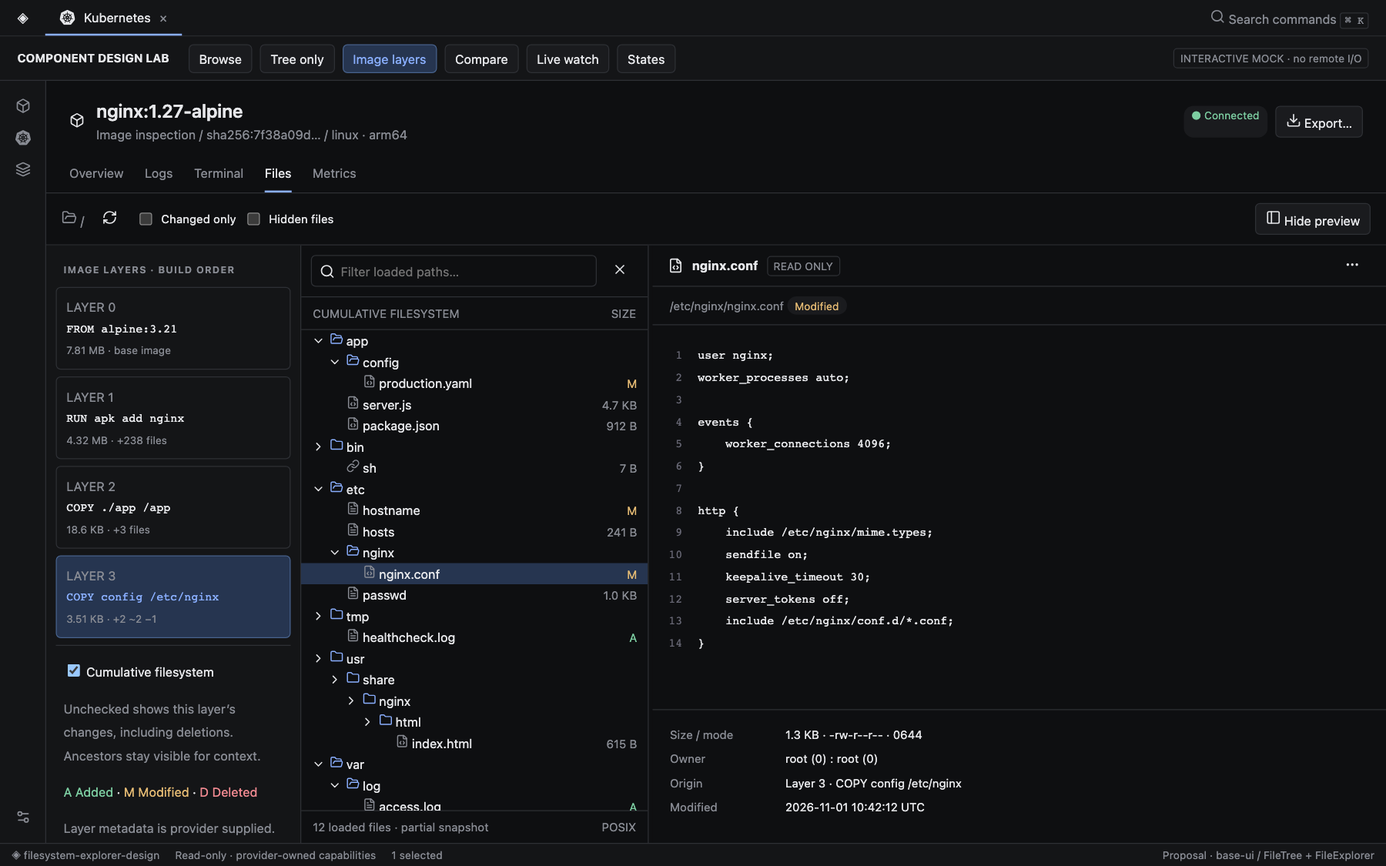
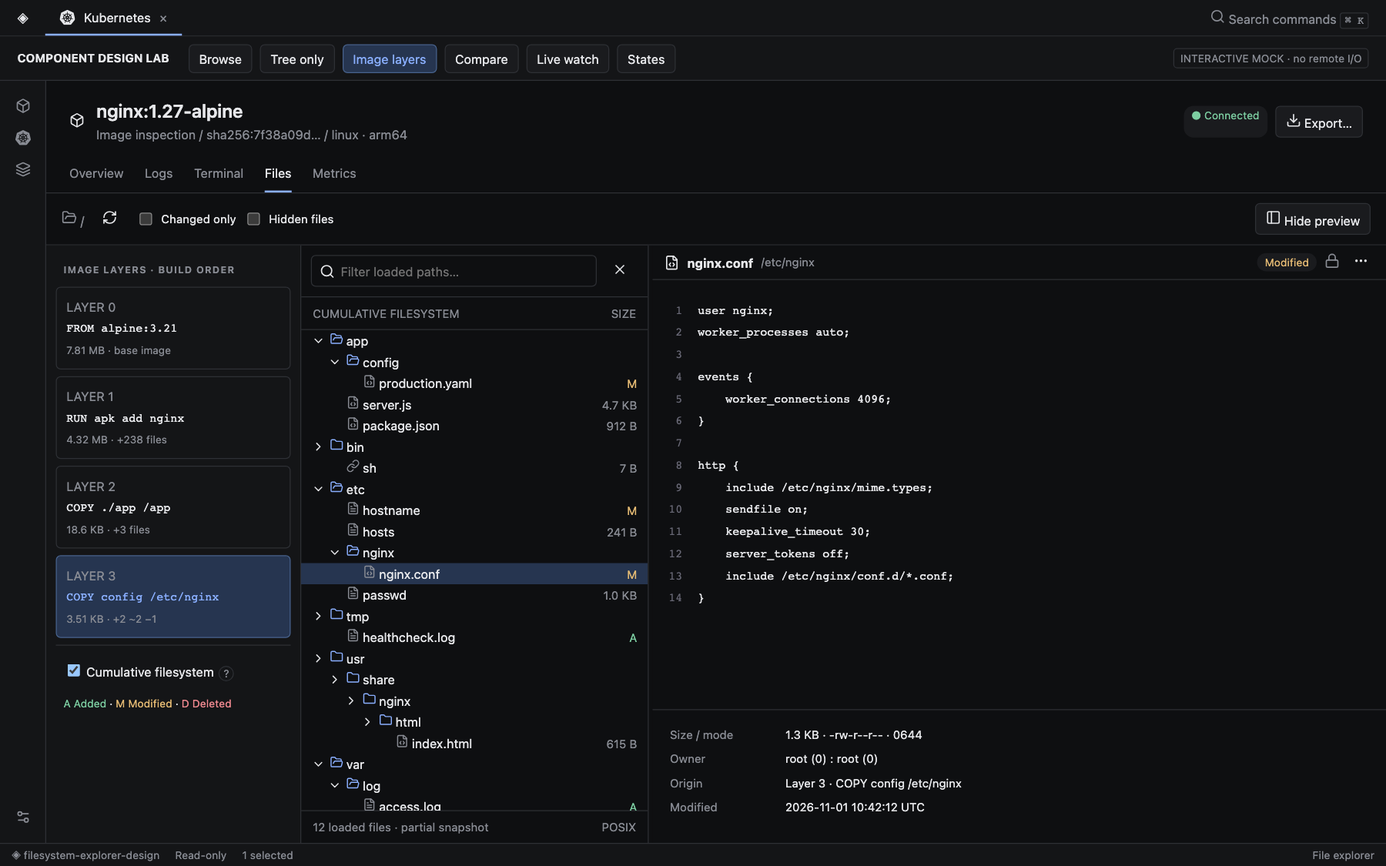
assets: simplify explorer copy, preview header, and refresh controls

diff --git a/prototype/index.html b/prototype/index.html
@@ -8,6 +8,20 @@
 .row svg{width:var(--explorer-icon-size);height:var(--explorer-icon-size)}
 .row .stat,.treehead,.treefoot,.crumb,.kv,.activity{font-size:12px}
 @media(max-width:700px){.work{--explorer-row-height:34px;--explorer-icon-size:16px}}
+.previewhead{height:36px;min-height:36px;flex-shrink:0;padding:5px 12px;gap:8px}
+.previewhead strong{max-width:40%;overflow:hidden;text-overflow:ellipsis;white-space:nowrap}
+.previewpath{min-width:0;flex:1;overflow:hidden;text-overflow:ellipsis;white-space:nowrap;color:var(--muted);font-size:12px}
+.previewhead button{margin-left:0;padding:3px 5px}
+.hint{flex:1;max-width:none;display:flex;align-items:center;justify-content:center;padding:28px}
+.shortcuts{width:100%;max-width:420px}.shortcuts h3{font-size:12px;color:var(--muted);font-weight:500;margin:0 0 16px}
+.shortcut{display:grid;grid-template-columns:185px 1fr;align-items:center;gap:12px;margin:10px 0;font-size:12px}
+.shortcut .keys{display:flex;align-items:center;gap:4px;flex-wrap:wrap}.shortcut kbd{padding:2px 6px;color:var(--fg)}
+.summary{position:relative}.help{position:static;display:inline-block;margin-left:5px;vertical-align:middle}
+.help summary{list-style:none;cursor:help;width:16px;height:16px;display:grid;place-items:center;border:1px solid var(--line);border-radius:50%;font-size:11px;line-height:1;color:var(--muted)}
+.help summary::-webkit-details-marker{display:none}.helptext{display:none;position:absolute;bottom:calc(100% + 8px);left:0;width:min(220px,100%);padding:10px;border:1px solid var(--line);border-radius:6px;background:var(--raised);color:var(--fg);font-size:12px;line-height:1.5;box-shadow:0 8px 24px #0008;z-index:5}
+.help[open] .helptext,.help:hover .helptext,.help:focus-within .helptext{display:block}
+.layerlegend{margin-top:10px;font-size:11px}.notice .sync-message{flex:1}.notice button{padding:4px 8px}
+@media(max-width:700px){.hint{padding:20px 12px}.shortcut{grid-template-columns:170px 1fr;gap:8px}.previewhead{height:36px;min-height:36px}.previewhead strong{max-width:38%}.helptext{left:auto;right:0}.summary .layerlegend{margin-top:6px}}
 @media(max-width:700px){header{padding:0 10px}header .search{font-size:10px}.lab{height:auto;min-height:90px;flex-wrap:wrap;padding:8px}.lab strong{width:100%;font-size:10px}.lab button{min-height:36px}.page{height:auto;min-height:calc(100dvh - 152px)}.rail{display:none}.work{overflow:hidden}.heading{flex-wrap:wrap;gap:8px}.heading h1{font-size:15px;max-width:calc(100vw - 60px);overflow-wrap:anywhere}.heading .actions{width:100%;margin:0}.subnav{padding:0 12px;gap:18px;font-size:11px;overflow:auto}.toolbar{flex-wrap:wrap;padding:8px;gap:6px}.toolbar button,.toolbar label{min-height:36px}.toolbar .push{display:none}.scope{flex-wrap:wrap;font-size:11px}.body{flex-direction:column;min-height:0}.layers{width:100%;height:230px;border-right:0;border-bottom:1px solid var(--line);padding:8px;display:flex;flex-wrap:wrap;gap:6px;align-content:flex-start}.layers .eyebrow{width:100%;padding:4px}.layer{width:calc(50% - 3px);padding:6px;margin:0}.layer b{font-size:10px;white-space:normal}.layer small{font-size:10px}.summary{width:100%;padding:3px;border:0;line-height:1.3;font-size:11px}.summary p{display:none}.treepane,.treepane.only{width:100%;min-width:0;max-width:none;flex:none;margin:0;border-radius:0;height:340px}.tree{min-height:180px}.row{height:34px}.split{height:5px;width:100%;cursor:row-resize}.preview{min-height:430px}.previewhead{flex-shrink:0}.code{min-height:280px}.diffcols{overflow:auto}.diffcols .code{min-width:300px}.kv{font-size:11px;padding:12px;gap:7px}.hint{padding:12px}.modal{width:calc(100vw - 28px);padding:18px}.notice{flex-wrap:wrap}.activity{font-size:11px}.activity>div:first-child{flex-wrap:wrap}.activity .event{gap:8px;flex-wrap:wrap}footer{position:static;height:auto;min-height:24px;flex-wrap:wrap;padding:6px;gap:6px;font-size:9px}footer span:last-child{margin-left:0}}
 </style></head><body><div id="main"></div><div id="layer"></div><script>
 'use strict';
@@ -20,12 +34,28 @@ const nodes=[
 const layers=[['0','FROM alpine:3.21','7.81 MB · base image'],['1','RUN apk add nginx','4.32 MB · +238 files'],['2','COPY ./app /app','18.6 KB · +3 files'],['3','COPY config /etc/nginx','3.51 KB · +2 ~2 −1']];
 function visible(){let list=nodes.filter(n=>state.hidden||!n.name.startsWith('.'));const q=state.query.toLowerCase();const layerMode=state.mode==='Image layers';const filter=n=>(!state.changed||n.change)&&(!layerMode||(state.cumulative?n.layer<=state.layer&&n.change!=='D':n.layer===state.layer));if(q||state.changed||layerMode){const hits=list.filter(n=>n.kind==='file'||n.kind==='link').filter(n=>filter(n)&&(!q||n.path.toLowerCase().includes(q)));const keep=new Set(hits.flatMap(n=>{let paths=[n.path],p=n.parent;while(p!=='/'){paths.push(p);p=p.slice(0,p.lastIndexOf('/'))||'/'}return paths}));return list.filter(n=>keep.has(n.path))}return list.filter(n=>{let p=n.parent;while(p!=='/'){if(!state.expanded.has(p))return false;p=p.slice(0,p.lastIndexOf('/'))||'/'}return true})}
 const size=n=>n? n<1024?`${n} B`:`${(n/1024).toFixed(1)} KB`:'—';
-function render(){const mode=state.mode;document.getElementById('main').innerHTML=`<header><strong>◈</strong><div class="tab">${I('SiKubernetes')} Kubernetes <span class="muted">×</span></div><span class="search">${I('LuSearch')} Search commands <kbd>⌘ K</kbd></span></header><div class="lab"><strong>COMPONENT DESIGN LAB</strong>${modes.map(m=>`<button data-mode="${m}" class="${mode===m?'active':''}">${m}</button>`).join('')}<span class="tag">INTERACTIVE MOCK · no remote I/O</span></div><div class="page"><nav class="rail" aria-label="Application">${I('LuBox')}${I('SiKubernetes')}${I('LuLayers')}<span style="margin-top:auto;margin-bottom:16px">${I('LuSettings2')}</span></nav><main class="work"><div class="heading"><div>${I('LuBox')}</div><div><h1>${mode==='Image layers'?'nginx:1.27-alpine':mode==='Tree only'?'File tree · standalone': 'checkout-api-7d8f9c6b5f-k2x9m'}</h1><span class="muted">${mode==='Image layers'?'Image inspection / sha256:7f38a09d… / linux · arm64':'production-eu / commerce / checkout-api / nginx'}</span></div><div class="actions"><span class="pill ${state.synced?'green':'amber'}">${state.synced?'● Connected':'◌ Resync required'}</span><button id="export">${I('LuDownload')} Export…</button></div></div><div class="subnav"><span>Overview</span><span>Logs</span><span>Terminal</span><span class="on">Files</span><span>Metrics</span></div>${mode==='Tree only'?'':toolbar()}${mode==='Compare'?'<div class="scope">'+I('LuGitCompare')+'<strong>Base image</strong> nginx:1.27-alpine <span>→</span> <strong>Running filesystem</strong> nginx · current snapshot <span class="pill">4 changed · 1 deleted</span></div>':''}${mode==='Live watch'&&!state.synced?'<div class="notice">'+I('LuCircleAlert')+' Watch sequence gap. Displayed files may be stale. <button id="resync">Resync snapshot</button></div>':''}<div class="body">${mode==='Image layers'?layerPanel():''}${mode==='States'?stateSurface():treePanel(mode==='Tree only')}${mode!=='Tree only'&&mode!=='States'&&state.preview?'<div class="split" role="separator" aria-label="Resize file tree" aria-orientation="vertical" tabindex="0"></div>'+preview():''}${mode==='Tree only'?'<aside class="hint"><h3>One tree. No extra surface.</h3>Selection, expansion, icons, keyboard navigation, and provider metadata.<p>No preview, layer panel, watch subscription, or diff engine required.</p><p><kbd>↑</kbd> <kbd>↓</kbd> navigate<br><kbd>→</kbd> expand · <kbd>←</kbd> collapse<br><kbd>Enter</kbd> open · <kbd>Space</kbd> select<br>⌘/Ctrl+click toggle selection<br>Shift+click select range<br>Right-click for actions</p></aside>':''}</div>${mode==='Live watch'?activity():''}</main></div><footer><span>◈ filesystem-explorer-design</span><span>Read-only · provider-owned capabilities</span><span>${state.selection.size} selected</span><span>Proposal · base-ui / FileTree + FileExplorer</span></footer>`;bind();renderOverlay()}
-function toolbar(){return `<div class="toolbar"><span class="muted">${I('LuFolderOpen')} /</span><button id="refresh" class="quiet" aria-label="Refresh filesystem">${I('LuRefreshCw')}</button><label class="toggle"><input id="changed" type="checkbox" ${state.changed?'checked':''}> Changed only</label><label class="toggle"><input id="hidden" type="checkbox" ${state.hidden?'checked':''}> Hidden files</label><span class="push"></span>${state.mode==='Live watch'?`<button id="pause">${I(state.paused?'LuPlay':'LuPause')} ${state.paused?'Resume':'Pause view'}</button><select id="event-kind" aria-label="Simulated change type">${['modify','add','delete','rename'].map(v=>`<option ${state.eventKind===v?'selected':''}>${v}</option>`).join('')}</select><button id="event">Simulate update</button><button id="gap">Simulate gap</button>`:''}<button id="preview">${I('LuPanelLeft')} ${state.preview?'Hide':'Show'} preview</button></div>`}
-function treePanel(only){const rows=visible();return `<section class="treepane ${only?'only':''}" aria-label="Filesystem browser"><div class="filter"><div class="filterbox">${I('LuSearch')}<input id="filter" aria-label="Filter loaded paths" placeholder="Filter loaded paths…" value="${esc(state.query)}"></div><button id="clear" class="quiet" aria-label="Clear filter">${I('LuX')}</button></div><div class="treehead"><span>${state.mode==='Image layers'?(state.cumulative?'CUMULATIVE FILESYSTEM':'CHANGES IN LAYER '+state.layer):'NAME'}</span><span>${state.mode==='Compare'?'CHANGE':'SIZE'}</span></div><div class="tree" role="tree" aria-label="Files" aria-multiselectable="true">${rows.map(n=>row(n)).join('')||'<div class="empty"><h2>No matching loaded paths</h2>Clear filter or ask provider to search unloaded directories.<p><button id="emptyclear">Clear filter</button></p></div>'}</div><div class="treefoot"><span>${rows.filter(n=>n.kind==='file'||n.kind==='link').length} loaded files · partial snapshot</span><span>${state.query?'Local filter':'POSIX'}</span></div></section>`}
+function render(){
+  const mode=state.mode;
+  document.getElementById('main').innerHTML=`<header><strong>◈</strong><div class="tab">${I('SiKubernetes')} Kubernetes <span class="muted">×</span></div><span class="search">${I('LuSearch')} Search commands <kbd>⌘ K</kbd></span></header><div class="lab"><strong>COMPONENT DESIGN LAB</strong>${modes.map(m=>`<button data-mode="${m}" class="${mode===m?'active':''}">${m}</button>`).join('')}<span class="tag">INTERACTIVE MOCK · no remote I/O</span></div><div class="page"><nav class="rail" aria-label="Application">${I('LuBox')}${I('SiKubernetes')}${I('LuLayers')}<span style="margin-top:auto;margin-bottom:16px">${I('LuSettings2')}</span></nav><main class="work"><div class="heading"><div>${I('LuBox')}</div><div><h1>${mode==='Image layers'?'nginx:1.27-alpine':mode==='Tree only'?'File tree': 'checkout-api-7d8f9c6b5f-k2x9m'}</h1><span class="muted">${mode==='Image layers'?'Image inspection / sha256:7f38a09d… / linux · arm64':'production-eu / commerce / checkout-api / nginx'}</span></div><div class="actions"><span class="pill ${state.synced?'green':'amber'}">${!state.synced?'◌ Refresh needed':mode==='Live watch'?(state.paused?'● Manual refresh':'● Live'):'● Connected'}</span><button id="export">${I('LuDownload')} Export…</button></div></div><div class="subnav"><span>Overview</span><span>Logs</span><span>Terminal</span><span class="on">Files</span><span>Metrics</span></div>${mode==='Tree only'?'':toolbar()}${mode==='Compare'?'<div class="scope">'+I('LuGitCompare')+'<strong>Base image</strong> nginx:1.27-alpine <span>→</span> <strong>Running filesystem</strong> nginx · current snapshot <span class="pill">4 changed · 1 deleted</span></div>':''}${mode==='Live watch'?syncNotice():''}<div class="body">${mode==='Image layers'?layerPanel():''}${mode==='States'?stateSurface():treePanel(mode==='Tree only')}${mode!=='Tree only'&&mode!=='States'&&state.preview?'<div class="split" role="separator" aria-label="Resize file tree" aria-orientation="vertical" tabindex="0"></div>'+preview():''}${mode==='Tree only'?shortcuts():''}</div>${mode==='Live watch'?activity():''}</main></div><footer><span>◈ filesystem-explorer-design</span><span>Read-only</span><span>${state.selection.size} selected</span><span>File explorer</span></footer>`;
+  bind();renderOverlay();
+}
+function shortcuts(){
+  const mod=params.get('platform')==='linux'?'Ctrl':'⌘';
+  const rows=[
+    [['↑','↓'],'Navigate'],[['→'],'Expand'],[['←'],'Collapse / parent'],[['Home','End'],'First / last'],[['Enter'],'Open'],[['Space'],'Toggle selection'],[[mod,'Click'],'Toggle selection'],[['Shift','Click'],'Select range'],[['Right-click'],'Actions']
+  ];
+  return '<aside class="hint" aria-label="Navigation shortcuts"><div class="shortcuts"><h3>Keyboard & mouse</h3>'+rows.map(([keys,label])=>'<div class="shortcut"><span class="keys">'+keys.map(key=>'<kbd>'+key+'</kbd>').join('')+'</span><span>'+label+'</span></div>').join('')+'</div></aside>';
+}
+function syncNotice(){
+  if(state.synced&&!state.pending)return '';
+  const message=!state.synced?'Live sync interrupted.':`${state.pending} update${state.pending===1?'':'s'} available.`;
+  return `<div class="notice" role="status">${I('LuRefreshCw')}<span class="sync-message">${message}</span><button id="resync" title="${state.synced?'Apply pending changes. Live sync will remain off.':'Refresh the filesystem to restore current data.'}">Refresh</button></div>`;
+}
+function toolbar(){return `<div class="toolbar"><span class="muted">${I('LuFolderOpen')} /</span><button id="refresh" class="quiet" aria-label="Refresh filesystem">${I('LuRefreshCw')}</button><label class="toggle"><input id="changed" type="checkbox" ${state.changed?'checked':''}> Changed only</label><label class="toggle"><input id="hidden" type="checkbox" ${state.hidden?'checked':''}> Hidden files</label><span class="push"></span>${state.mode==='Live watch'?`<label class="toggle"><input id="auto-sync" type="checkbox" ${state.paused?'':'checked'}> Live sync</label><select id="event-kind" aria-label="Simulated change type">${['modify','add','delete','rename'].map(v=>`<option ${state.eventKind===v?'selected':''}>${v}</option>`).join('')}</select><button id="event">Simulate update</button><button id="gap">Interrupt live sync</button>`:''}<button id="preview">${I('LuPanelLeft')} ${state.preview?'Hide':'Show'} preview</button></div>`}
+function treePanel(only){const rows=visible();return `<section class="treepane ${only?'only':''}" aria-label="Filesystem browser"><div class="filter"><div class="filterbox">${I('LuSearch')}<input id="filter" aria-label="Filter loaded paths" placeholder="Filter loaded paths…" value="${esc(state.query)}"></div><button id="clear" class="quiet" aria-label="Clear filter">${I('LuX')}</button></div><div class="treehead"><span>${state.mode==='Image layers'?(state.cumulative?'CUMULATIVE FILESYSTEM':'CHANGES IN LAYER '+state.layer):'NAME'}</span><span>${state.mode==='Compare'?'CHANGE':'SIZE'}</span></div><div class="tree" role="tree" aria-label="Files" aria-multiselectable="true">${rows.map(n=>row(n)).join('')||'<div class="empty"><h2>No matching loaded paths</h2><p><button id="emptyclear">Clear filter</button></p></div>'}</div><div class="treefoot"><span>${rows.filter(n=>n.kind==='file'||n.kind==='link').length} loaded files · partial snapshot</span><span>${state.query?'Local filter':'POSIX'}</span></div></section>`}
 function row(n){const dir=['dir','locked'].includes(n.kind);let icon=dir?(state.expanded.has(n.path)?'LuFolderOpen':'LuFolder'):n.kind==='link'?'LuLink':n.name.match(/\.(js|json|yaml|conf|html)$/)?'LuFileCode':'LuFileText';return `<div class="row ${state.selection.has(n.path)?'selected':''} ${n.change==='D'?'deleted':''}" role="treeitem" aria-level="${n.depth+1}" aria-selected="${state.selection.has(n.path)}" ${dir?`aria-expanded="${state.expanded.has(n.path)}"`:''} tabindex="${n.path===state.selected?0:-1}" data-path="${esc(n.path)}" style="padding-left:${10+n.depth*17}px"><span class="chev" data-expand="${esc(n.path)}">${dir?I(state.expanded.has(n.path)?'LuChevronDown':'LuChevronRight'):''}</span><span class="${dir?'accent':'muted'}">${I(icon)}</span><span class="name">${esc(n.name)}</span>${n.kind==='locked'?I('LuLock'):''}<span class="stat ${n.change==='A'?'green':n.change==='D'?'red':n.change?'amber':'muted'}">${n.change||(!dir?size(n.size):'')}</span></div>`}
-function layerPanel(){return `<aside class="layers"><div class="eyebrow">IMAGE LAYERS · BUILD ORDER</div>${layers.map(([id,cmd,meta])=>`<button class="layer ${state.layer===+id?'active':''}" data-layer="${id}"><span class="muted">LAYER ${id}</span><b>${esc(cmd)}</b><small>${meta}</small></button>`).join('')}<div class="summary"><label><input id="cumulative" type="checkbox" ${state.cumulative?'checked':''}> Cumulative filesystem</label><p class="muted">Unchecked shows this layer’s changes, including deletions. Ancestors stay visible for context.</p><span class="green">A Added</span> · <span class="amber">M Modified</span> · <span class="red">D Deleted</span><p class="muted">Layer metadata is provider supplied. Deletions are tombstones, not readable files.</p></div></aside>`}
 const base=['user nginx;','worker_processes auto;','','events {','    worker_connections 1024;','}','','http {','    include /etc/nginx/mime.types;','    sendfile on;','    keepalive_timeout 65;','    include /etc/nginx/conf.d/*.conf;','}'];
+function layerPanel(){return `<aside class="layers"><div class="eyebrow">IMAGE LAYERS · BUILD ORDER</div>${layers.map(([id,cmd,meta])=>`<button class="layer ${state.layer===+id?'active':''}" data-layer="${id}"><span class="muted">LAYER ${id}</span><b>${esc(cmd)}</b><small>${meta}</small></button>`).join('')}<div class="summary"><label><input id="cumulative" type="checkbox" ${state.cumulative?'checked':''}> Cumulative filesystem</label><details class="help"><summary aria-label="Layer view help">?</summary><div class="helptext">Show all files at the selected layer. Turn off to show only changes in that layer, including deleted files.</div></details><div class="layerlegend"><span class="green">A Added</span> · <span class="amber">M Modified</span> · <span class="red">D Deleted</span></div></div></aside>`}
 const current=['user nginx;','worker_processes auto;','','events {','    worker_connections 4096;','}','','http {','    include /etc/nginx/mime.types;','    sendfile on;','    keepalive_timeout 30;','    server_tokens off;','    include /etc/nginx/conf.d/*.conf;','}'];
 function lines(arr,diff=false){return arr.map((s,i)=>`<div class="line ${diff&&(s.includes('4096')||s.includes('30;')||s.includes('server_tokens'))?'add':diff&&(s.includes('1024')||s.includes('65;'))?'remove':''}"><span class="ln">${i+1}</span><span>${esc(s)}</span></div>`).join('')}
 function fileContents(n){
@@ -44,20 +74,20 @@ function fileContents(n){
 }
 function preview(){
   const n=nodes.find(n=>n.path===state.selected);
-  if(!n)return '<section class="preview"><div class="empty"><h2>Select a file</h2>Preview is optional and supplied by the consumer.</div></section>';
+  if(!n)return '<section class="preview"><div class="empty"><h2>Select a file</h2></div></section>';
   const deleted=n.change==='D',dir=n.kind==='dir',locked=n.kind==='locked';let body;
   if(deleted)body='<div class="empty">'+I('LuFile')+'<h2>Deleted '+(n.liveDeleted?'from running filesystem':'in layer 3')+'</h2>This file is absent from the resulting filesystem.<br>Previous metadata · '+size(n.size)+'<p><button id="previous">View previous contents</button></p></div>';
   else if(locked)body='<div class="empty">'+I('LuLock')+'<h2>Permission denied</h2>Provider cannot list /root as uid 101.<br>Other directories remain available.</div>';
-  else if(dir)body='<div class="empty">'+I('LuFolderOpen')+'<h2>'+esc(n.name)+'</h2>Directory · expand to inspect loaded children.<br>Provider loads additional children on demand.</div>';
-  else if(n.kind==='link')body='<div class="empty">'+I('LuLink')+'<h2>Symbolic link</h2>/bin/sh → /bin/busybox<br>Target resolution stays within provider root.<p><button id="follow">Reveal target metadata</button></p></div>';
+  else if(dir)body='<div class="empty">'+I('LuFolderOpen')+'<h2>'+esc(n.name)+'</h2>Directory</div>';
+  else if(n.kind==='link')body='<div class="empty">'+I('LuLink')+'<h2>Symbolic link</h2>/bin/sh → /bin/busybox<p><button id="follow">Reveal target metadata</button></p></div>';
   else if(state.mode==='Compare'&&n.name==='nginx.conf')body='<div class="diffbar"><span>BASE IMAGE · read-only</span><span>RUNNING SNAPSHOT · +3 −2 lines</span></div><div class="diffcols"><div class="code">'+lines(base,true)+'</div><div class="code">'+lines(current,true)+'</div></div>';
   else if(state.mode==='Compare'&&n.change==='A')body='<div class="notice">Added in running filesystem · no baseline content</div><div class="code">'+lines(fileContents(n))+'</div>';
-  else if(state.mode==='Compare'&&n.change==='M')body='<div class="empty"><h2>Structural change detected</h2>Baseline text is not loaded in this fixture.<br>Content comparison remains unknown.</div>';
+  else if(state.mode==='Compare'&&n.change==='M')body='<div class="empty"><h2>Baseline unavailable</h2>Content comparison unknown.</div>';
   else body='<div class="code">'+lines(fileContents(n))+'</div>';
-  return `<section class="preview" aria-label="File preview"><div class="previewhead">${I('LuFileCode')} <strong>${esc(n.name)}</strong><span class="tag">${state.mode==='Compare'?'DIFF':'READ ONLY'}</span><button id="details" class="quiet" aria-label="File metadata">${I('LuEllipsis')}</button></div><div class="crumb">${esc(n.path)}${n.change?' <span class="pill '+(n.change==='D'?'red':'amber')+'">'+({M:'Modified',D:'Deleted',A:'Added'}[n.change])+'</span>':''}</div>${body}<dl class="kv"><dt>Size / mode</dt><dd>${size(n.size)} · ${dir||locked?'drwxr-xr-x · 0755':n.kind==='link'?'lrwxrwxrwx · 0777':'-rw-r--r-- · 0644'}</dd><dt>Owner</dt><dd>${n.path.startsWith('/app')||n.path.startsWith('/var/log')?'nginx (101) : nginx (101)':'root (0) : root (0)'}</dd><dt>Origin</dt><dd>Layer ${n.layer} · ${esc(layers[n.layer][1])}</dd><dt>Modified</dt><dd>2026-11-01 10:42:12 UTC</dd></dl></section>`;
+  return `<section class="preview" aria-label="File preview"><div class="previewhead">${I('LuFileCode')} <strong title="${esc(n.path)}">${esc(n.name)}</strong><span class="previewpath" title="${esc(n.path)}">${esc(n.parent)}</span>${n.change?'<span class="pill '+(n.change==='D'?'red':'amber')+'">'+({M:'Modified',D:'Deleted',A:'Added'}[n.change])+'</span>':''}<span class="muted" title="Read-only" aria-label="Read-only">${I('LuLock')}</span><button id="details" class="quiet" aria-label="File metadata">${I('LuEllipsis')}</button></div>${body}<dl class="kv"><dt>Size / mode</dt><dd>${size(n.size)} · ${dir||locked?'drwxr-xr-x · 0755':n.kind==='link'?'lrwxrwxrwx · 0777':'-rw-r--r-- · 0644'}</dd><dt>Owner</dt><dd>${n.path.startsWith('/app')||n.path.startsWith('/var/log')?'nginx (101) : nginx (101)':'root (0) : root (0)'}</dd><dt>Origin</dt><dd>Layer ${n.layer} · ${esc(layers[n.layer][1])}</dd><dt>Modified</dt><dd>2026-11-01 10:42:12 UTC</dd></dl></section>`;
 }
-function activity(){return `<div class="activity"><div style="display:flex;justify-content:space-between"><strong>${I('LuRadio')} Live changes ${state.paused?'· view paused':'· following'} ${state.pending?'· '+state.pending+' pending':''}</strong><span class="muted">Simulation · stable selection; queued view updates</span></div>${state.events.length?state.events.slice(-3).map(e=>'<div class="event"><time>10:42:'+String(12+e.id).padStart(2,'0')+'</time><span class="green">'+e.kind.toUpperCase()+'</span><code>'+e.path+'</code><span class="muted">sequence '+(1042+e.id)+'</span></div>').join(''):'<span class="muted">No events yet. Simulate update to inspect change feedback.</span>'}</div>`}
-function stateSurface(){return `<section class="preview"><div class="toolbar"><label for="scenario">Provider state</label><select id="scenario">${['permission','loading','empty','offline','binary','large','missing-tar'].map(v=>'<option '+(state.scenario===v?'selected':'')+'>'+v+'</option>').join('')}</select></div><div class="empty">${I(state.scenario==='permission'?'LuLock':'LuCircleAlert')}<h2>${({permission:'Permission denied',loading:'Loading /usr/lib…',empty:'Directory is empty',offline:'Filesystem disconnected',binary:'Binary file · libssl.so.3',large:'Preview limit reached · access.log', 'missing-tar':'Archive export unavailable'})[state.scenario]}</h2>${({permission:'Cannot list /root as uid 101. No escalation occurs automatically.',loading:'Only this branch is pending. Existing files stay interactive. Cancel stops the provider request.',empty:'No children in this directory. This differs from no search results.',offline:'Last snapshot remains visible, marked stale. Reconnect before trusting new reads.',binary:'1.7 MB · application/x-sharedlib. Binary preview is not supported. Metadata remains available.',large:'Showing first 64 KB of 284 MB. Consumer chooses streaming or download.', 'missing-tar':'Provider reports tar is missing in this container. Browsing and non-archive actions remain available.'})[state.scenario]}<p><button id="stateaction">${state.scenario==='loading'?'Cancel load':state.scenario==='empty'?'Refresh directory':state.scenario==='binary'||state.scenario==='large'?'Download file':state.scenario==='missing-tar'?'View capability details':'Retry'}</button></p></div></section>`}
+function activity(){return `<div class="activity"><strong>${I('LuRadio')} Changes</strong>${state.events.length?state.events.slice(-3).map(e=>'<div class="event"><time title="Sequence '+(1042+e.id)+'">10:42:'+String(12+e.id).padStart(2,'0')+'</time><span class="green">'+e.kind.toUpperCase()+'</span><code>'+e.path+'</code></div>').join(''):'<div class="muted">No changes</div>'}</div>`}
+function stateSurface(){return `<section class="preview"><div class="toolbar"><label for="scenario">Provider state</label><select id="scenario">${['permission','loading','empty','offline','binary','large','missing-tar'].map(v=>'<option '+(state.scenario===v?'selected':'')+'>'+v+'</option>').join('')}</select></div><div class="empty">${I(state.scenario==='permission'?'LuLock':'LuCircleAlert')}<h2>${({permission:'Permission denied',loading:'Loading /usr/lib…',empty:'Directory is empty',offline:'Filesystem disconnected',binary:'Binary file · libssl.so.3',large:'Preview limit reached · access.log', 'missing-tar':'Archive export unavailable'})[state.scenario]}</h2>${({permission:'Cannot open /root as uid 101.',loading:'',empty:'',offline:'Reconnect to refresh files.',binary:'1.7 MB · Binary preview unavailable.',large:'First 64 KB of 284 MB.', 'missing-tar':'tar is not installed in this container.'})[state.scenario]}<p><button id="stateaction">${state.scenario==='loading'?'Cancel load':state.scenario==='empty'?'Refresh directory':state.scenario==='binary'||state.scenario==='large'?'Download file':state.scenario==='missing-tar'?'View capability details':'Retry'}</button></p></div></section>`}
 function selectNode(path,e={}){const old=state.selected;state.selected=path;if(e.shiftKey){const paths=visible().map(n=>n.path),a=paths.indexOf(old),b=paths.indexOf(path);state.selection=new Set(paths.slice(Math.min(a,b),Math.max(a,b)+1))}else if(e.metaKey||e.ctrlKey){state.selection.has(path)?state.selection.delete(path):state.selection.add(path)}else state.selection=new Set([path]);render();focusPath(path)}
 function focusPath(path){document.querySelectorAll('[data-path]').forEach(el=>{if(el.dataset.path===path){el.focus({preventScroll:true});el.scrollIntoView({block:'nearest'})}})}
 function bind(){
@@ -69,22 +99,23 @@ function bind(){
     el.onkeydown=e=>treeKey(e);
   });
   const on=(id,fn)=>{const e=document.getElementById(id);if(e)e.onclick=fn};
+  document.querySelectorAll('.help').forEach(el=>{el.onpointerenter=e=>{if(e.pointerType==='mouse')el.open=true};el.onpointerleave=e=>{if(e.pointerType==='mouse'&&!el.contains(document.activeElement))el.open=false};el.addEventListener('focusout',e=>{if(!el.contains(e.relatedTarget))el.open=false})});
   const filter=document.getElementById('filter');
   if(filter)filter.oninput=e=>{const start=e.target.selectionStart;state.query=e.target.value;render();const input=document.getElementById('filter');input.focus();input.setSelectionRange(start,start)};
   on('clear',()=>{state.query='';render();document.getElementById('filter').focus()});
   on('emptyclear',()=>{state.query='';render()});
   for(const id of ['changed','hidden']){const el=document.getElementById(id);if(el)el.onchange=()=>{state[id]=el.checked;render()}}
   on('preview',()=>{state.preview=!state.preview;render()});
-  on('refresh',()=>{state.synced=true;state.modal='Snapshot refreshed';render()});
+  on('refresh',refreshFiles);
   on('export',()=>{state.modal='export';renderOverlay()});
   on('details',()=>{state.modal='Metadata contract';renderOverlay()});
   on('previous',()=>{state.modal='Previous snapshot contents';renderOverlay()});
   on('follow',()=>{state.modal='Link target /bin/busybox';renderOverlay()});
-  on('pause',()=>{state.paused=!state.paused;if(!state.paused){state.pending=0;for(const e of pendingEvents)applyUpdate(e);pendingEvents.length=0}render()});
+  const autoSync=document.getElementById('auto-sync');if(autoSync)autoSync.onchange=()=>{state.paused=!autoSync.checked;if(!state.paused&&state.synced){state.pending=0;for(const e of pendingEvents)applyUpdate(e);pendingEvents.length=0}render()};
   const eventKind=document.getElementById('event-kind');if(eventKind)eventKind.onchange=()=>{state.eventKind=eventKind.value};
-  on('event',()=>{const e={id:++eventId,kind:state.eventKind||'modify',path:'/var/log/access.log'};if(e.kind==='add')e.path='/var/log/request-'+e.id+'.log';if(e.kind==='delete'||e.kind==='rename')e.path=state.selected;if(state.paused){state.pending++;pendingEvents.push(e)}else applyUpdate(e);render()});
+  on('event',()=>{const e={id:++eventId,kind:state.eventKind||'modify',path:'/var/log/access.log'};if(e.kind==='add')e.path='/var/log/request-'+e.id+'.log';if(e.kind==='delete'||e.kind==='rename')e.path=state.selected;if(state.paused||!state.synced){state.pending++;pendingEvents.push(e)}else applyUpdate(e);render()});
   on('gap',()=>{state.synced=false;render()});
-  on('resync',()=>{state.synced=true;state.pending=0;pendingEvents.length=0;render()});
+  on('resync',refreshFiles);
   const reconcileLayer=()=>{const rows=visible();if(!rows.some(n=>n.path===state.selected)){state.selected=rows.find(n=>n.kind==='file'||n.kind==='link')?.path||'';state.selection=new Set(state.selected?[state.selected]:[])}render()};
   document.querySelectorAll('[data-layer]').forEach(el=>el.onclick=()=>{state.layer=+el.dataset.layer;reconcileLayer()});
   const cum=document.getElementById('cumulative');if(cum)cum.onchange=()=>{state.cumulative=cum.checked;reconcileLayer()};
@@ -96,6 +127,7 @@ function bind(){
     split.onkeydown=e=>{if(e.key==='ArrowLeft'||e.key==='ArrowRight'){e.preventDefault();const w=parseInt(getComputedStyle(document.documentElement).getPropertyValue('--tree-width'));document.documentElement.style.setProperty('--tree-width',Math.max(230,Math.min(650,w+(e.key==='ArrowRight'?20:-20)))+'px')}};
   }
 }
+function refreshFiles(){for(const e of pendingEvents)applyUpdate(e);pendingEvents.length=0;state.pending=0;state.synced=true;render()}
 function applyUpdate(e){
   const n=nodes.find(n=>n.path===e.path);
   if(e.kind==='add'){nodes.push({path:e.path,name:e.path.split('/').pop(),parent:'/var/log',kind:'file',change:'A',size:124,layer:3,depth:2});state.expanded.add('/var');state.expanded.add('/var/log')}

diff --git a/design.md b/design.md
@@ -26,6 +26,18 @@ The initial mock already used 13px inherited body text; this revision makes that
 
 Virtualization must use the effective row height, including density and responsive changes. The existing hardcoded 36px estimate is an implementation acceptance blocker for compact virtualized trees, not fixed by this HTML mock. Scope that repair to existing TreeList rather than introducing another virtualizer. No production component code changes are part of this design revision.
 
+## Visual copy and refresh revision
+
+- Keep architectural and provider explanations in this document, not permanently inside explorer panels.
+- Standalone tree's adjacent surface shows only navigation and selection shortcuts. Render every key and mouse modifier with the same keycap treatment, including modifier-click, Shift-click, and context actions.
+- Layer controls show their scope toggle and change legend. Explain cumulative versus per-layer scope only in a help disclosure that supports hover, keyboard focus, and click/tap.
+- Combine filename, parent path, change badge, read-only icon, and file actions in one 36px preview header. Truncate the inline path; full path remains available on hover. Remove the separate full-path header.
+- Expose `Live sync` explicitly. With sync off, queue updates and show a short “N updates available” notice with `Refresh`. Refresh applies pending updates without turning live sync back on.
+- After an interrupted subscription, show “Live sync interrupted” with `Refresh`. Keep sequence/cursor diagnostics out of default copy. Do not describe an unknown gap as a confirmed file change or silently claim current data.
+- Remove instructional descriptions from empty/loading/provider-state examples. Retain actionable errors, source context, partial-coverage labels, and bounded-preview information.
+
+The simulation controls and mock safety label remain outside the production component contract. No real export, download, watch transport, or provider connection is added by this revision.
+
 ## Component boundaries
 
 | Surface | Owns | Does not own |
